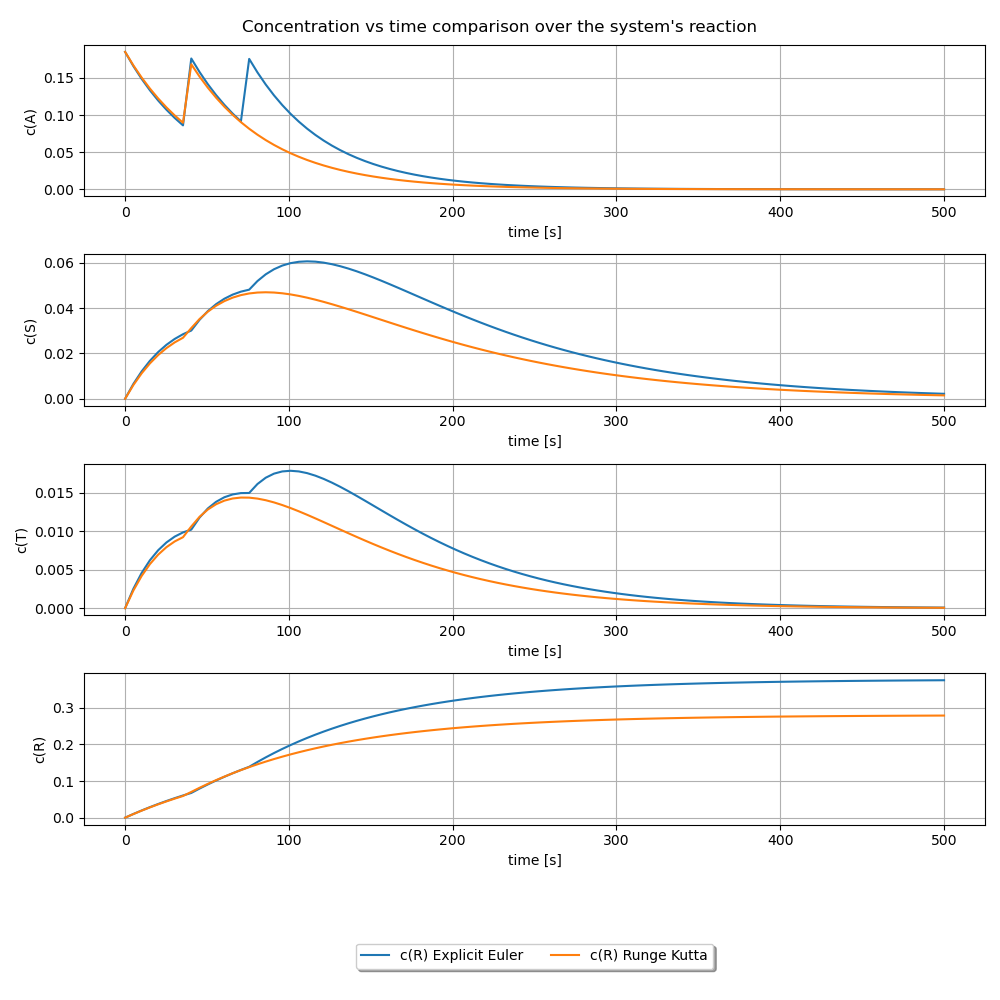
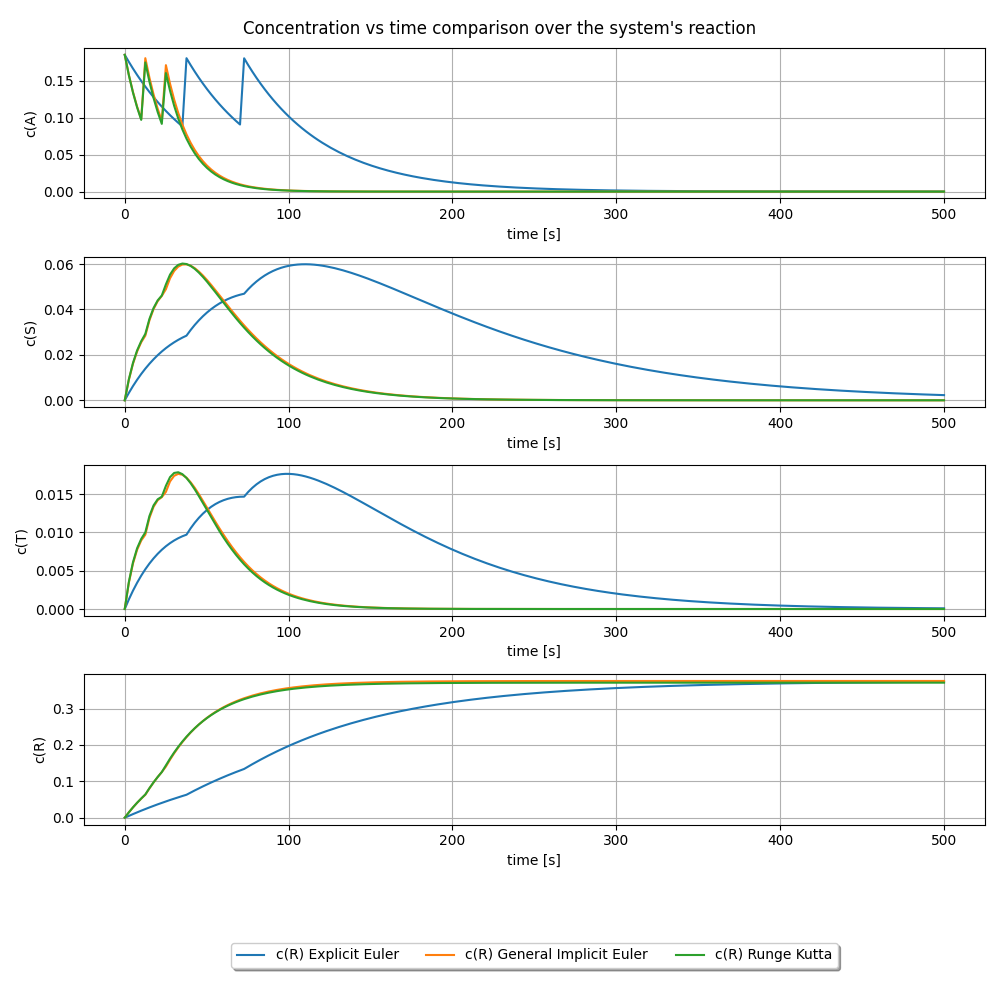
updated next iteration of y

diff --git a/odeRK.py b/odeRK.py
@@ -27,11 +27,14 @@ def odeRK(fun, t, y0, events=None):
         y[:, i, np.newaxis] = yi
         
         k1 = fun(t, yi)
-        k2 = fun(t + dt/2, yi + dt*k1/2)
-        k3 = fun(t + dt/2, yi + dt*k2/2)
-        k4 = fun(t + dt, yi + dt*k3)
+        y_new = yi + dt*k1/2
+        k2 = fun(t + dt/2, y_new)
+        y_new = y_new + dt*k2/2
+        k3 = fun(t + dt/2, y_new)
+        y_new = y_new + dt*k3
+        k4 = fun(t + dt, y_new)
     
-        yi = yi + dt * 1/6 * (k1 + 2*k2 + 2*k3 + k4)
+        yi = y_new + dt * 1/6 * (k1 + 2*k2 + 2*k3 + k4)
     
     y[:, i+1, np.newaxis] = yi
     return timevalues, y

diff --git a/main.py b/main.py
@@ -46,7 +46,7 @@ mfunc_std1 = ReactionModel().model_func_standard
 
 methods = {
     "Explicit Euler": odeEE(mfunc_inj1, t_num, y0), 
-    #"General Implicit Euler": odeIE(mfunc_inj2, t_num, y0), 
+    "General Implicit Euler": odeIE(mfunc_inj2, t_num, y0), 
     #"Linear Implicit Euler": odeIELinear(coeff_matrix, t_num, y0), 
     "Runge Kutta": odeRK(mfunc_inj3, t_num, y0),
     #"Analytic Solution": asol(t_anal, y0, k)

diff --git a/odeIE.py b/odeIE.py
@@ -38,7 +38,7 @@ def y_next_fixed_point_iteration(fun, yi, ti, dt):
     yi_next_old = nan
     for _ in range(N_ITER):
         fi = fun(ti, y_next_new)
-        y_next_new = yi + fi * dt
+        y_next_new = y_next_new + fi * dt
         
         
         iterative_change = y_next_new - yi_next_old

diff --git a/constants.py b/constants.py
@@ -1,7 +1,7 @@
 import numpy as np
 
 TOTAL_TIME = 500
-N_TIME_STEPS = 100
+N_TIME_STEPS = 200
 N_REINJECTIONS = 2 #+1 from the first time 
 INITIAL_cA = 0.185
 REINJECTION_CONC_A = 0.5 * INITIAL_cA
